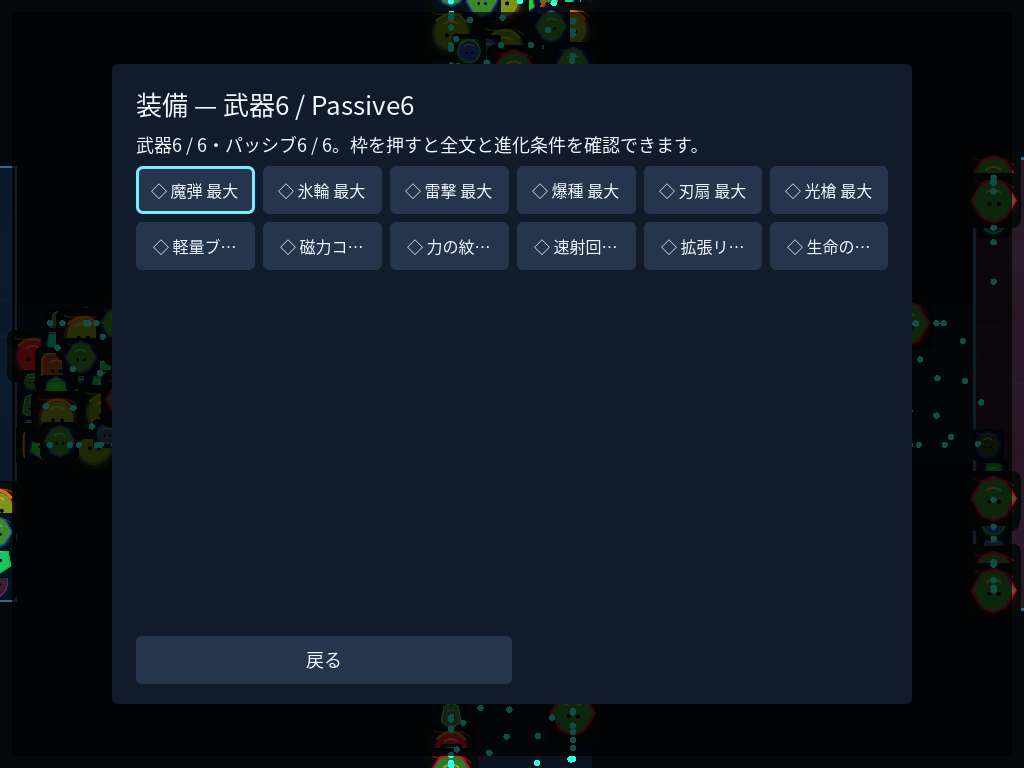
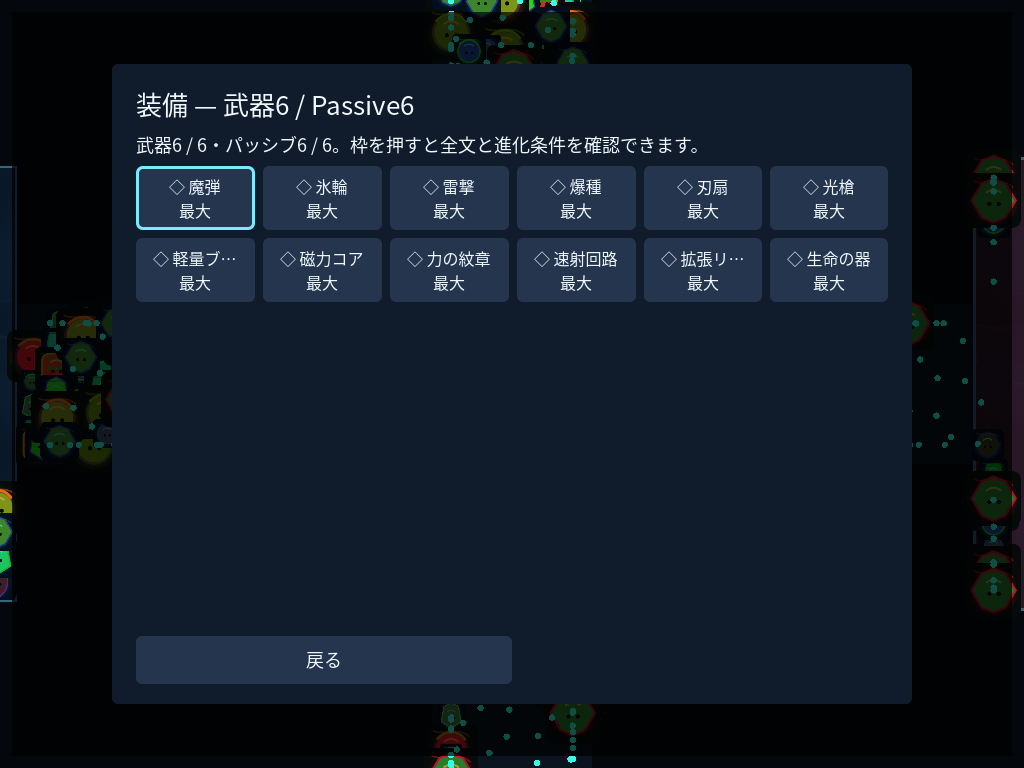
update final visual and regression evidence after equipment readability review

Changed region(s): [[0.125, 0.2188, 0.875, 0.4062]]

diff --git a/docs/qa/SENIOR_REVIEW.md b/docs/qa/SENIOR_REVIEW.md
@@ -21,17 +21,17 @@ No known Critical or fixable High remains after current regressions. External re
 
 Additional review fixes: deploy pull now changes authoritative enemy impulses; periodic poison/reset is owned by StatusSystem and status deaths drain before AI, so a lethally poisoned boss cannot attack. Legacy desktop saves are read-only imported from the original product directory. Boss contact/telegraph death causes are distinct.473 assertions in10 suites cover these regressions.
 
-## UI/UX follow-up review — runtime0de0694
+## UI/UX follow-up review — runtime744e994
 
 Full audit/state matrix/performance evidence: UI_UX_AUDIT.md, UI_STATE_MATRIX.md,
-UI_PERFORMANCE.md. All41 tracked implementation findings repaired (2Critical,
-18High,20Medium,1Low at discovery). Fixable **UI code** Critical/High remaining0;
+UI_PERFORMANCE.md. All42 tracked implementation findings repaired (2Critical,
+18High,21Medium,1Low at discovery). Fixable **UI code** Critical/High remaining0;
 this does not close the pre-existing external repository-name/human playtest gates.
 
 UX: explicit start goal, selection differences, disabled conditions and results;
 UI: cached Containers, native focus, width-first Japanese layout, modal single owner;
 Mobile: point-based Safe Area,48pt actions, keyboard-aware seed entry and neutral
-joystick; Accessibility: contrast/name/focus/shape/type scaling; QA:1,508 assertions,
+joystick; Accessibility: contrast/name/focus/shape/type scaling; QA:1,510 assertions,
 16 viewport entries,63 actual Linux render fixtures, normal-HP clear/endless/result
 flow; Performance:30Hz critical/5Hz contextual and lifecycle boss lookup.
 No known fixable Critical/High emerged in the final engineering walkthrough.

diff --git a/docs/qa/COMPLETION_GATE.md b/docs/qa/COMPLETION_GATE.md
@@ -26,16 +26,16 @@ Actions and artifacts: https://github.com/jankendo/-gem-survivor-crystal-field-v
 
 Published IPA independently downloaded/reassembled and validated: SHA25636540c48cced830cb07bcbfa4acf01760f2fcb15e4c0d60312dd6fc5861696e2 matches the Release asset digest. The alpha tag remains immutable; later documentation commits do not alter the released runtime. Full validation provenance: `evidence/alpha-release-verified.json`.
 
-## UI/UX audit gate (runtime0de0694)
+## UI/UX audit gate (runtime744e994)
 
-- Local parser/import and67-table validation PASS;1,508 assertions /14 suites PASS.
+- Local parser/import and67-table validation PASS;1,510 assertions /14 suites PASS.
 - Native mouse/key/touch-event and layout checks execute;16 requested viewport
   entries include all panels/HUD, long Japanese, full equipment and125% type.
 - Actual Linux X11/OpenGL screenshots are scripted fixtures at844×390,1280×720,
   1024×768. They are not screenshots from Windows/iPhone or a human session.
 - Normal-HP seeded UI autoplay reaches three bosses/CLEAR, continues Endless,
   finishes once, settles once and returns to Title. No HP/population overrides.
--41 tracked code/UI findings repaired; fixable UI Critical/High0. Physical-device
+-42 tracked code/UI findings repaired; fixable UI Critical/High0. Physical-device
   Touch/SafeArea/Accessibility/human UX gates remain NOT YET VERIFIED ON REAL DEVICE.
 - Immutablealpha.1 predates these UI fixes. Current main Actions binaries contain
   them; do not present the old tag as the new UI release.

diff --git a/docs/qa/UI_UX_AUDIT.md b/docs/qa/UI_UX_AUDIT.md
@@ -82,8 +82,10 @@ progression modules, not an omitted directory.
 
 | U41 | High | Mobile setup focused the optional seed automatically; keyboard could cover actions and submission had no explicit close/focus behavior |
 
-All41 tracked findings are addressed by executable changes. Severity at discovery:
-Critical2, High18, Medium20, Low1. These counts include problems found while testing
+| U42 | Medium | Single-line equipment slots ellipsized level/max status even with short Japanese names |
+
+All42 tracked findings are addressed by executable changes. Severity at discovery:
+Critical2, High18, Medium21, Low1. These counts include problems found while testing
 repairs; they are not a count of unverified human/device limitations. No known
 fixable Critical/High remains in the audited supported UI flow. New source-code
 coverage is14 discovered suites; see committed evidence for exact assertions and CI.
